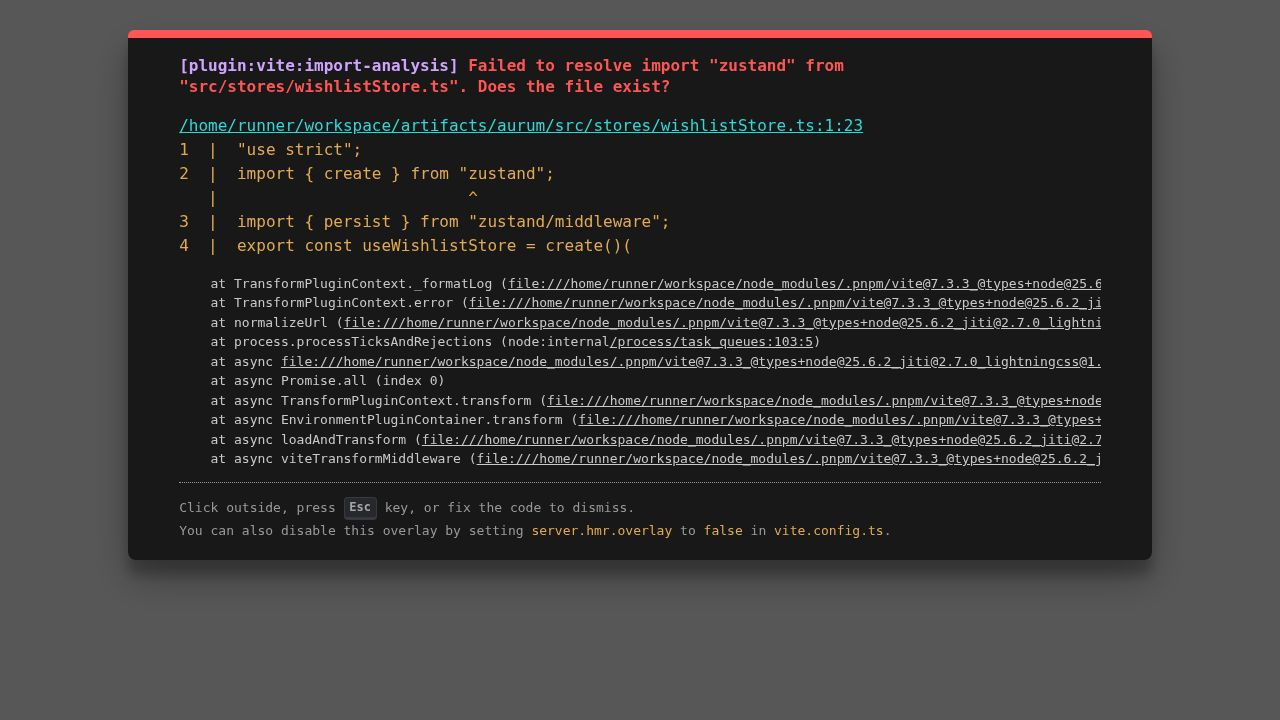
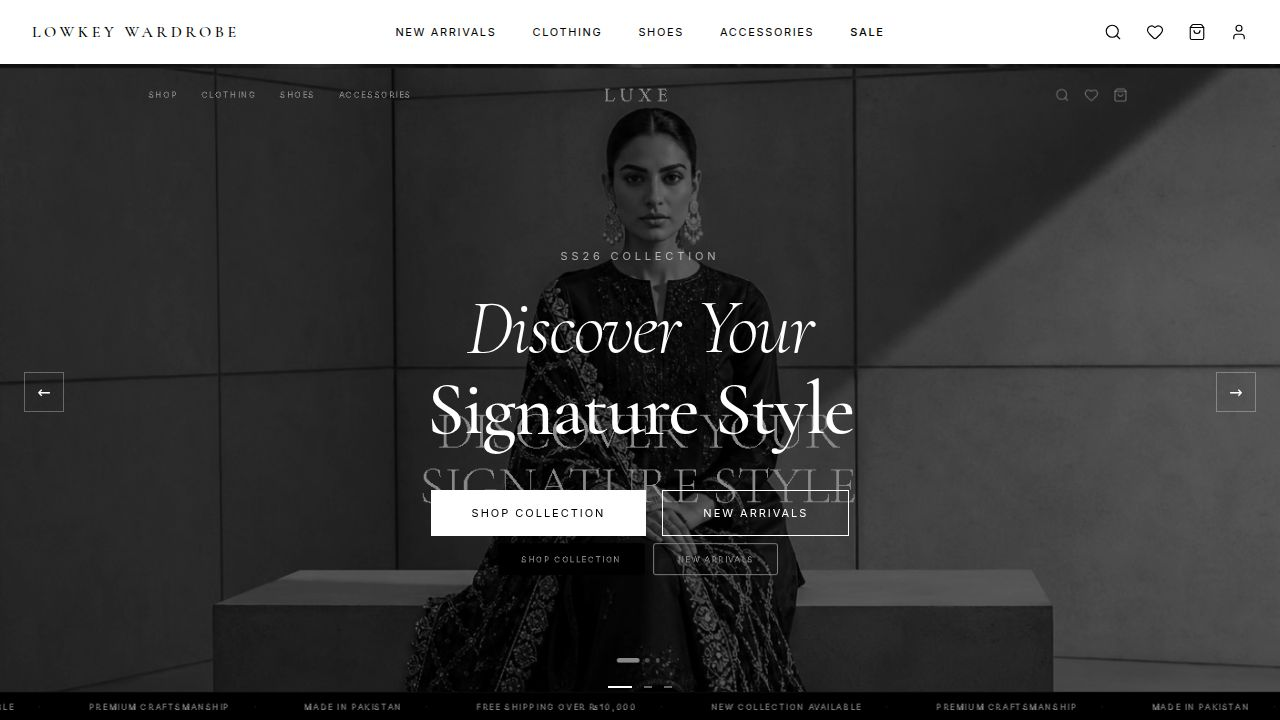
Update website branding and implement a black and white image slideshow for the hero section
Update the website name to "Lowkey Wardrobe", replace the static hero section with a dynamic image slideshow with a grayscale filter, and apply a consistent black and white theme across category cards, editorial sections, and navigation links.

Replit-Commit-Author: Agent
Replit-Commit-Session-Id: 47bbc2bb-f489-45d0-b4f8-f537f259c0bb
Replit-Commit-Checkpoint-Type: full_checkpoint
Replit-Commit-Event-Id: cc7ea56a-3a28-4f47-a9d8-bdd4d566a453
Replit-Commit-Screenshot-Url: https://storage.googleapis.com/screenshot-production-us-central1/ca815717-aaa9-4289-99e2-ae573f9845eb/47bbc2bb-f489-45d0-b4f8-f537f259c0bb/3FAqyxS
Replit-Helium-Checkpoint-Created: true

diff --git a/artifacts/aurum/src/pages/Home.tsx b/artifacts/aurum/src/pages/Home.tsx
@@ -1,10 +1,10 @@
-import { motion } from 'framer-motion';
+import { motion, AnimatePresence } from 'framer-motion';
 import { useListProducts, useSubscribeNewsletter } from '@workspace/api-client-react';
 import { products as hardcodedProducts } from '../data/products';
 import { ProductCard } from '../components/ProductCard';
 import { FigureSVG } from '../components/FigureSVG';
 import { useUIStore } from '../stores/uiStore';
-import { useState } from 'react';
+import { useState, useEffect } from 'react';
 import { Link, useLocation } from 'wouter';
 import { Truck, ShieldCheck, RefreshCw, Gift } from 'lucide-react';
 
@@ -45,47 +45,129 @@ export default function Home() {
     { id: 'accessories', label: 'Accessories' }
   ];
 
+  const slides = [
+    {
+      image: '/hero-1.png',
+      eyebrow: 'SS26 Collection',
+      line1: 'Discover Your',
+      line2: 'Signature Style',
+      primaryHref: '/products',
+      secondaryHref: '/products?category=new',
+    },
+    {
+      image: '/hero-2.png',
+      eyebrow: 'New Arrivals',
+      line1: 'Crafted for the',
+      line2: 'Discerning Step',
+      primaryHref: '/products?category=shoes',
+      secondaryHref: '/products?category=new',
+    },
+    {
+      image: '/hero-3.png',
+      eyebrow: 'Heritage',
+      line1: 'Where Heritage',
+      line2: 'Meets Luxury',
+      primaryHref: '/products?category=clothing',
+      secondaryHref: '/products?category=new',
+    },
+  ];
+
+  const [currentSlide, setCurrentSlide] = useState(0);
+
+  useEffect(() => {
+    const timer = setInterval(() => {
+      setCurrentSlide(prev => (prev + 1) % slides.length);
+    }, 5500);
+    return () => clearInterval(timer);
+  }, []);
+
   return (
     <div className="w-full bg-white text-black min-h-[100dvh] pt-[64px]">
       
-      {/* 2. HERO */}
-      <section className="h-[calc(100vh-64px)] min-h-[600px] grid grid-cols-1 lg:grid-cols-2 relative overflow-hidden" data-testid="hero-section">
-        <div className="flex flex-col justify-center px-8 lg:pl-20 lg:pr-16 py-20 z-10 bg-white lg:bg-transparent">
-          <motion.div initial={{ opacity: 0, y: 32 }} animate={{ opacity: 1, y: 0 }} transition={{ ease: [0.4, 0, 0.2, 1], duration: 0.8, delay: 0.2 }}>
-            <p className="text-[11px] text-[#999999] tracking-[0.25em] uppercase mb-6">SS26 Collection</p>
+      {/* 2. HERO SLIDESHOW */}
+      <section className="relative h-[calc(100vh-64px)] min-h-[600px] overflow-hidden bg-black" data-testid="hero-section">
+        {/* Slides */}
+        <AnimatePresence mode="sync">
+          <motion.div
+            key={currentSlide}
+            initial={{ opacity: 0 }}
+            animate={{ opacity: 1 }}
+            exit={{ opacity: 0 }}
+            transition={{ duration: 1, ease: 'easeInOut' }}
+            className="absolute inset-0"
+          >
+            <img
+              src={slides[currentSlide].image}
+              alt=""
+              className="w-full h-full object-cover object-top grayscale"
+              draggable={false}
+            />
+            <div className="absolute inset-0 bg-black/55" />
           </motion.div>
-          <motion.div initial={{ opacity: 0, y: 32 }} animate={{ opacity: 1, y: 0 }} transition={{ ease: [0.4, 0, 0.2, 1], duration: 0.8, delay: 0.4 }}>
-            <h1 className="font-serif text-[clamp(52px,5.5vw,84px)] leading-[1.05] tracking-tight mb-8">
-              <span className="italic font-light">Discover your</span><br/>
-              <span className="font-medium">Signature Style</span>
-            </h1>
-          </motion.div>
-          <motion.div initial={{ opacity: 0, y: 32 }} animate={{ opacity: 1, y: 0 }} transition={{ ease: [0.4, 0, 0.2, 1], duration: 0.8, delay: 0.6 }}>
-            <p className="text-[14px] font-light leading-[1.8] text-[#333333] max-w-[380px] mb-12">
-              Meticulously crafted for those who understand that true luxury lies in the details. Timeless pieces that transcend seasons.
-            </p>
-          </motion.div>
-          <motion.div initial={{ opacity: 0, y: 32 }} animate={{ opacity: 1, y: 0 }} transition={{ ease: [0.4, 0, 0.2, 1], duration: 0.8, delay: 0.8 }} className="flex flex-row gap-4">
-            <Link href="/products">
-              <button className="bg-black text-white hover:bg-white hover:text-black hover:border-black border border-transparent px-8 py-3.5 text-[11px] uppercase tracking-[0.15em] transition-colors duration-300 w-full sm:w-auto">
-                Shop Collection
-              </button>
-            </Link>
-            <Link href="/products?category=new">
-              <button className="border border-black text-black hover:bg-black hover:text-white px-8 py-3.5 text-[11px] uppercase tracking-[0.15em] transition-colors duration-300 w-full sm:w-auto">
-                Explore Looks
-              </button>
-            </Link>
-          </motion.div>
+        </AnimatePresence>
+
+        {/* Text overlay */}
+        <div className="absolute inset-0 flex flex-col items-center justify-center text-white text-center px-6 z-10">
+          <AnimatePresence mode="wait">
+            <motion.div
+              key={`txt-${currentSlide}`}
+              initial={{ opacity: 0, y: 24 }}
+              animate={{ opacity: 1, y: 0 }}
+              exit={{ opacity: 0, y: -16 }}
+              transition={{ duration: 0.7, ease: [0.4, 0, 0.2, 1] }}
+              className="flex flex-col items-center"
+            >
+              <p className="text-[11px] tracking-[0.35em] uppercase mb-6 text-white/60">
+                {slides[currentSlide].eyebrow}
+              </p>
+              <h1 className="font-serif text-[clamp(42px,6vw,88px)] leading-[1.05] tracking-tight mb-10">
+                <span className="italic font-light block">{slides[currentSlide].line1}</span>
+                <span className="font-medium block">{slides[currentSlide].line2}</span>
+              </h1>
+              <div className="flex flex-col sm:flex-row gap-4 justify-center">
+                <Link href={slides[currentSlide].primaryHref}>
+                  <button className="bg-white text-black hover:bg-black hover:text-white border border-white px-10 py-3.5 text-[11px] uppercase tracking-[0.18em] transition-colors duration-300 min-w-[180px]">
+                    Shop Collection
+                  </button>
+                </Link>
+                <Link href={slides[currentSlide].secondaryHref}>
+                  <button className="border border-white text-white hover:bg-white hover:text-black px-10 py-3.5 text-[11px] uppercase tracking-[0.18em] transition-colors duration-300 min-w-[180px]">
+                    New Arrivals
+                  </button>
+                </Link>
+              </div>
+            </motion.div>
+          </AnimatePresence>
         </div>
-        <div className="hidden lg:block relative" style={{ background: 'linear-gradient(160deg, #f0ede8 0%, #e8e2d9 40%, #ddd6c8 100%)' }}>
-          <div className="absolute top-10 left-10 bg-white/80 backdrop-blur border border-[#EAEAEA] px-4 py-2 flex flex-col z-20">
-            <span className="text-[10px] tracking-[0.2em] uppercase">New Collection · 2026</span>
-          </div>
-          <p className="absolute top-10 right-10 text-[11px] tracking-[0.2em] uppercase text-[#999999]">SS 2026</p>
-          <p className="absolute bottom-10 left-10 text-[11px] tracking-[0.2em] uppercase text-[#999999] origin-bottom-left -rotate-90 whitespace-nowrap">Editorial Collection</p>
-          <FigureSVG figType="coat" ca="#c9bfb0" cb="#1e1e1e" className="absolute bottom-0 right-[8%] w-[55%] h-[90%] opacity-85" />
+
+        {/* Dot navigation */}
+        <div className="absolute bottom-8 left-1/2 -translate-x-1/2 flex items-center gap-3 z-10">
+          {slides.map((_, i) => (
+            <button
+              key={i}
+              onClick={() => setCurrentSlide(i)}
+              className={`transition-all duration-400 rounded-full ${
+                i === currentSlide
+                  ? 'w-6 h-[2px] bg-white rounded-none'
+                  : 'w-2 h-[2px] bg-white/40 rounded-none'
+              }`}
+            />
+          ))}
         </div>
+
+        {/* Side arrows */}
+        <button
+          onClick={() => setCurrentSlide(prev => (prev - 1 + slides.length) % slides.length)}
+          className="absolute left-6 top-1/2 -translate-y-1/2 z-10 w-10 h-10 border border-white/30 flex items-center justify-center text-white hover:bg-white/10 transition-colors"
+        >
+          ←
+        </button>
+        <button
+          onClick={() => setCurrentSlide(prev => (prev + 1) % slides.length)}
+          className="absolute right-6 top-1/2 -translate-y-1/2 z-10 w-10 h-10 border border-white/30 flex items-center justify-center text-white hover:bg-white/10 transition-colors"
+        >
+          →
+        </button>
       </section>
 
       {/* 3. MARQUEE */}
@@ -100,7 +182,7 @@ export default function Home() {
       {/* 4. CATEGORIES */}
       <section className="grid grid-cols-1 md:grid-cols-2 lg:grid-cols-4 gap-[2px] bg-white pt-[2px]">
         {/* Card 1 */}
-        <div onClick={() => setLocation('/products?category=clothing')} className="group cursor-pointer relative md:col-span-2 min-h-[400px] md:min-h-[500px] overflow-hidden flex flex-col justify-end p-10" style={{ background: 'linear-gradient(135deg, #e8e0d5, #d5c9b8, #c2b49e)' }}>
+        <div onClick={() => setLocation('/products?category=clothing')} className="group cursor-pointer relative md:col-span-2 min-h-[400px] md:min-h-[500px] overflow-hidden flex flex-col justify-end p-10" style={{ background: 'linear-gradient(135deg, #d0d0d0, #b0b0b0)' }}>
           <motion.div className="absolute inset-0 z-0 origin-center" whileHover={{ scale: 1.05 }} transition={{ duration: 0.7, ease: [0.4, 0, 0.2, 1] }}>
             <FigureSVG figType="coat" ca="#ffffff" cb="#000000" className="absolute right-0 top-0 w-full h-full opacity-50 translate-x-[20%]" />
             <div className="absolute inset-0 bg-gradient-to-t from-black/55 to-transparent" />
@@ -134,7 +216,7 @@ export default function Home() {
         </div>
 
         {/* Card 3 */}
-        <div onClick={() => setLocation('/products?category=accessories')} className="group cursor-pointer relative min-h-[400px] md:min-h-[500px] overflow-hidden flex flex-col justify-end p-10" style={{ background: 'linear-gradient(135deg, #f0ebe3, #e0d8cc)' }}>
+        <div onClick={() => setLocation('/products?category=accessories')} className="group cursor-pointer relative min-h-[400px] md:min-h-[500px] overflow-hidden flex flex-col justify-end p-10" style={{ background: 'linear-gradient(135deg, #e8e8e8, #c8c8c8)' }}>
           <motion.div className="absolute inset-0 z-0 origin-center" whileHover={{ scale: 1.05 }} transition={{ duration: 0.7, ease: [0.4, 0, 0.2, 1] }}>
             <FigureSVG figType="watch" ca="#ffffff" cb="#000000" className="absolute right-0 top-0 w-[150%] h-[150%] opacity-[0.05] translate-x-[10%] -translate-y-[20%]" />
             <div className="absolute inset-0 bg-gradient-to-t from-black/40 to-transparent" />
@@ -206,7 +288,7 @@ export default function Home() {
 
       {/* 6. EDITORIAL */}
       <section className="my-20 mx-8 grid grid-cols-1 lg:grid-cols-2 gap-[2px] min-h-[600px] bg-white">
-        <div className="relative p-12 lg:p-20 flex flex-col justify-end group cursor-pointer overflow-hidden min-h-[400px]" style={{ background: 'linear-gradient(135deg, #f0ebe3, #e0d5c8)' }}>
+        <div className="relative p-12 lg:p-20 flex flex-col justify-end group cursor-pointer overflow-hidden min-h-[400px]" style={{ background: 'linear-gradient(135deg, #efefef, #d8d8d8)' }}>
           <span className="absolute top-10 left-12 text-[10px] uppercase tracking-[0.2em] font-medium border border-black/10 px-3 py-1 bg-white/50 backdrop-blur-sm">Editorial</span>
           <FigureSVG figType="coat" ca="#000000" cb="#000000" className="absolute right-0 top-0 h-full w-[80%] opacity-10 translate-x-[20%] group-hover:scale-105 transition-transform duration-[1s]" />
           <div className="relative z-10">
@@ -232,7 +314,7 @@ export default function Home() {
             <div className="relative z-20">
               <h3 className="font-serif text-[28px] italic leading-[1.2] max-w-[300px] mb-6">Exclusive access to private sales</h3>
               <div className="flex items-center gap-4 text-[11px] uppercase tracking-[0.2em]">
-                <span className="border-b border-black pb-1">Join Aurum</span>
+                <span className="border-b border-black pb-1">Join Us</span>
                 <span className="group-hover:translate-x-2 transition-transform duration-300">→</span>
               </div>
             </div>

diff --git a/artifacts/aurum/index.html b/artifacts/aurum/index.html
@@ -3,15 +3,15 @@
   <head>
     <meta charset="UTF-8" />
     <meta name="viewport" content="width=device-width, initial-scale=1.0, maximum-scale=1" />
-    <title>AURUM — Luxury Fashion</title>
-    <meta name="description" content="AURUM — Luxury Fashion — built on Replit. Update this description to reflect the app." />
+    <title>Lowkey Wardrobe — Luxury Fashion</title>
+    <meta name="description" content="Lowkey Wardrobe — Timeless luxury fashion rooted in heritage craft." />
     <meta name="robots" content="index, follow" />
-    <meta property="og:title" content="AURUM — Luxury Fashion" />
-    <meta property="og:description" content="AURUM — Luxury Fashion — built on Replit. Update this description to reflect the app." />
+    <meta property="og:title" content="Lowkey Wardrobe — Luxury Fashion" />
+    <meta property="og:description" content="Lowkey Wardrobe — Timeless luxury fashion rooted in heritage craft." />
     <meta property="og:type" content="website" />
     <meta name="twitter:card" content="summary_large_image" />
-    <meta name="twitter:title" content="AURUM — Luxury Fashion" />
-    <meta name="twitter:description" content="AURUM — Luxury Fashion — built on Replit. Update this description to reflect the app." />
+    <meta name="twitter:title" content="Lowkey Wardrobe — Luxury Fashion" />
+    <meta name="twitter:description" content="Lowkey Wardrobe — Timeless luxury fashion rooted in heritage craft." />
     <link rel="icon" type="image/svg+xml" href="/favicon.svg" />
     <link rel="preconnect" href="https://fonts.googleapis.com">
     <link rel="preconnect" href="https://fonts.gstatic.com" crossorigin>

diff --git a/artifacts/aurum/src/components/Footer.tsx b/artifacts/aurum/src/components/Footer.tsx
@@ -6,7 +6,7 @@ export function Footer() {
       <div className="max-w-[1400px] mx-auto px-8">
         <div className="grid grid-cols-1 md:grid-cols-5 gap-12 mb-20">
           <div className="col-span-1 md:col-span-2">
-            <div className="font-serif text-[28px] tracking-[0.18em] mb-4">AURUM</div>
+            <div className="font-serif text-[22px] tracking-[0.22em] mb-4 uppercase">Lowkey Wardrobe</div>
             <p className="text-[14px] text-white/40 font-light max-w-xs">
               Luxury fashion rooted in timeless craft.
             </p>
@@ -19,14 +19,14 @@ export function Footer() {
               <li><Link href="/products?category=clothing"><span className="text-[13px] text-white/60 font-light hover:text-white transition-colors cursor-pointer">Clothing</span></Link></li>
               <li><Link href="/products?category=shoes"><span className="text-[13px] text-white/60 font-light hover:text-white transition-colors cursor-pointer">Shoes</span></Link></li>
               <li><Link href="/products?category=accessories"><span className="text-[13px] text-white/60 font-light hover:text-white transition-colors cursor-pointer">Accessories</span></Link></li>
-              <li><Link href="/products?category=sale"><span className="text-[13px] text-[#C41E1E] font-light hover:text-[#ff3b3b] transition-colors cursor-pointer">Sale</span></Link></li>
+              <li><Link href="/products?category=sale"><span className="text-[13px] text-white/60 font-light hover:text-white transition-colors cursor-pointer">Sale</span></Link></li>
             </ul>
           </div>
 
           <div>
             <h4 className="text-[11px] tracking-[0.2em] uppercase mb-6 text-white/40">Company</h4>
             <ul className="flex flex-col gap-4">
-              <li><a href="#" className="text-[13px] text-white/60 font-light hover:text-white transition-colors">About Aurum</a></li>
+              <li><a href="#" className="text-[13px] text-white/60 font-light hover:text-white transition-colors">About Us</a></li>
               <li><a href="#" className="text-[13px] text-white/60 font-light hover:text-white transition-colors">Sustainability</a></li>
               <li><a href="#" className="text-[13px] text-white/60 font-light hover:text-white transition-colors">Careers</a></li>
               <li><a href="#" className="text-[13px] text-white/60 font-light hover:text-white transition-colors">Press</a></li>
@@ -48,7 +48,7 @@ export function Footer() {
 
         <div className="border-t border-white/10 pt-8 flex flex-col md:flex-row justify-between items-center gap-4">
           <p className="text-[12px] text-white/40 font-light">
-            &copy; 2026 Aurum. All rights reserved.
+            &copy; 2026 Lowkey Wardrobe. All rights reserved.
           </p>
           <div className="flex items-center gap-6">
             <a href="#" className="text-[12px] text-white/40 hover:text-white tracking-[0.1em] uppercase transition-colors">Instagram</a>

diff --git a/artifacts/aurum/src/components/Navbar.tsx b/artifacts/aurum/src/components/Navbar.tsx
@@ -34,14 +34,14 @@ export function Navbar() {
         <div className="h-full px-8 flex items-center justify-between">
           {/* Logo */}
           <Link href="/">
-            <div className="font-serif text-[22px] font-medium tracking-[0.18em] cursor-pointer">AURUM</div>
+            <div className="font-serif text-[16px] font-medium tracking-[0.22em] cursor-pointer uppercase">Lowkey Wardrobe</div>
           </Link>
 
           {/* Center Links — desktop */}
           <div className="hidden md:flex items-center gap-9 absolute left-1/2 -translate-x-1/2">
             {navLinks.map((link) => (
               <Link key={link.label} href={link.href}>
-                <div className={`text-[11px] tracking-[0.15em] uppercase hover:opacity-70 transition-opacity cursor-pointer relative group ${link.sale ? 'text-[#C41E1E]' : ''}`}>
+                <div className={`text-[11px] tracking-[0.15em] uppercase hover:opacity-70 transition-opacity cursor-pointer relative group ${link.sale ? 'font-medium' : ''}`}>
                   {link.label}
                   <span className="absolute -bottom-1 left-0 w-0 h-[1px] bg-current transition-all duration-300 group-hover:w-full" />
                 </div>
@@ -99,7 +99,7 @@ export function Navbar() {
           <nav className="flex flex-col gap-5">
             {navLinks.map(link => (
               <Link key={link.label} href={link.href}>
-                <div onClick={() => setMobileOpen(false)} className={`text-[13px] uppercase tracking-[0.15em] ${link.sale ? 'text-[#C41E1E]' : ''}`}>
+                <div onClick={() => setMobileOpen(false)} className={`text-[13px] uppercase tracking-[0.15em] ${link.sale ? 'font-medium' : ''}`}>
                   {link.label}
                 </div>
               </Link>

diff --git a/artifacts/aurum/src/pages/AdminLogin.tsx b/artifacts/aurum/src/pages/AdminLogin.tsx
@@ -45,7 +45,7 @@ export default function AdminLogin() {
         className="w-full max-w-[420px]"
       >
         <div className="text-center mb-12">
-          <div className="font-serif text-[28px] font-medium tracking-[0.18em] mb-2">AURUM</div>
+          <div className="font-serif text-[20px] font-medium tracking-[0.22em] mb-2 uppercase">Lowkey Wardrobe</div>
           <p className="text-[11px] uppercase tracking-[0.2em] text-[#999999]">Admin Portal</p>
         </div>
 
@@ -102,7 +102,7 @@ export default function AdminLogin() {
         </div>
 
         <p className="text-center text-[12px] text-[#999999] mt-6">
-          <a href="/" className="hover:text-black transition-colors">← Back to AURUM</a>
+          <a href="/" className="hover:text-black transition-colors">← Back to Lowkey Wardrobe</a>
         </p>
       </motion.div>
     </div>

diff --git a/artifacts/aurum/src/components/AdminLayout.tsx b/artifacts/aurum/src/components/AdminLayout.tsx
@@ -31,7 +31,7 @@ export function AdminLayout({ children, title }: AdminLayoutProps) {
   const Sidebar = () => (
     <div className="flex flex-col h-full">
       <div className="px-6 py-8 border-b border-[#EAEAEA]">
-        <div className="font-serif text-[20px] font-medium tracking-[0.18em]">AURUM</div>
+        <div className="font-serif text-[14px] font-medium tracking-[0.22em] uppercase">Lowkey Wardrobe</div>
         <p className="text-[9px] uppercase tracking-[0.2em] text-[#999999] mt-1">Admin Portal</p>
       </div>
       <nav className="flex-1 px-3 py-6 space-y-1">